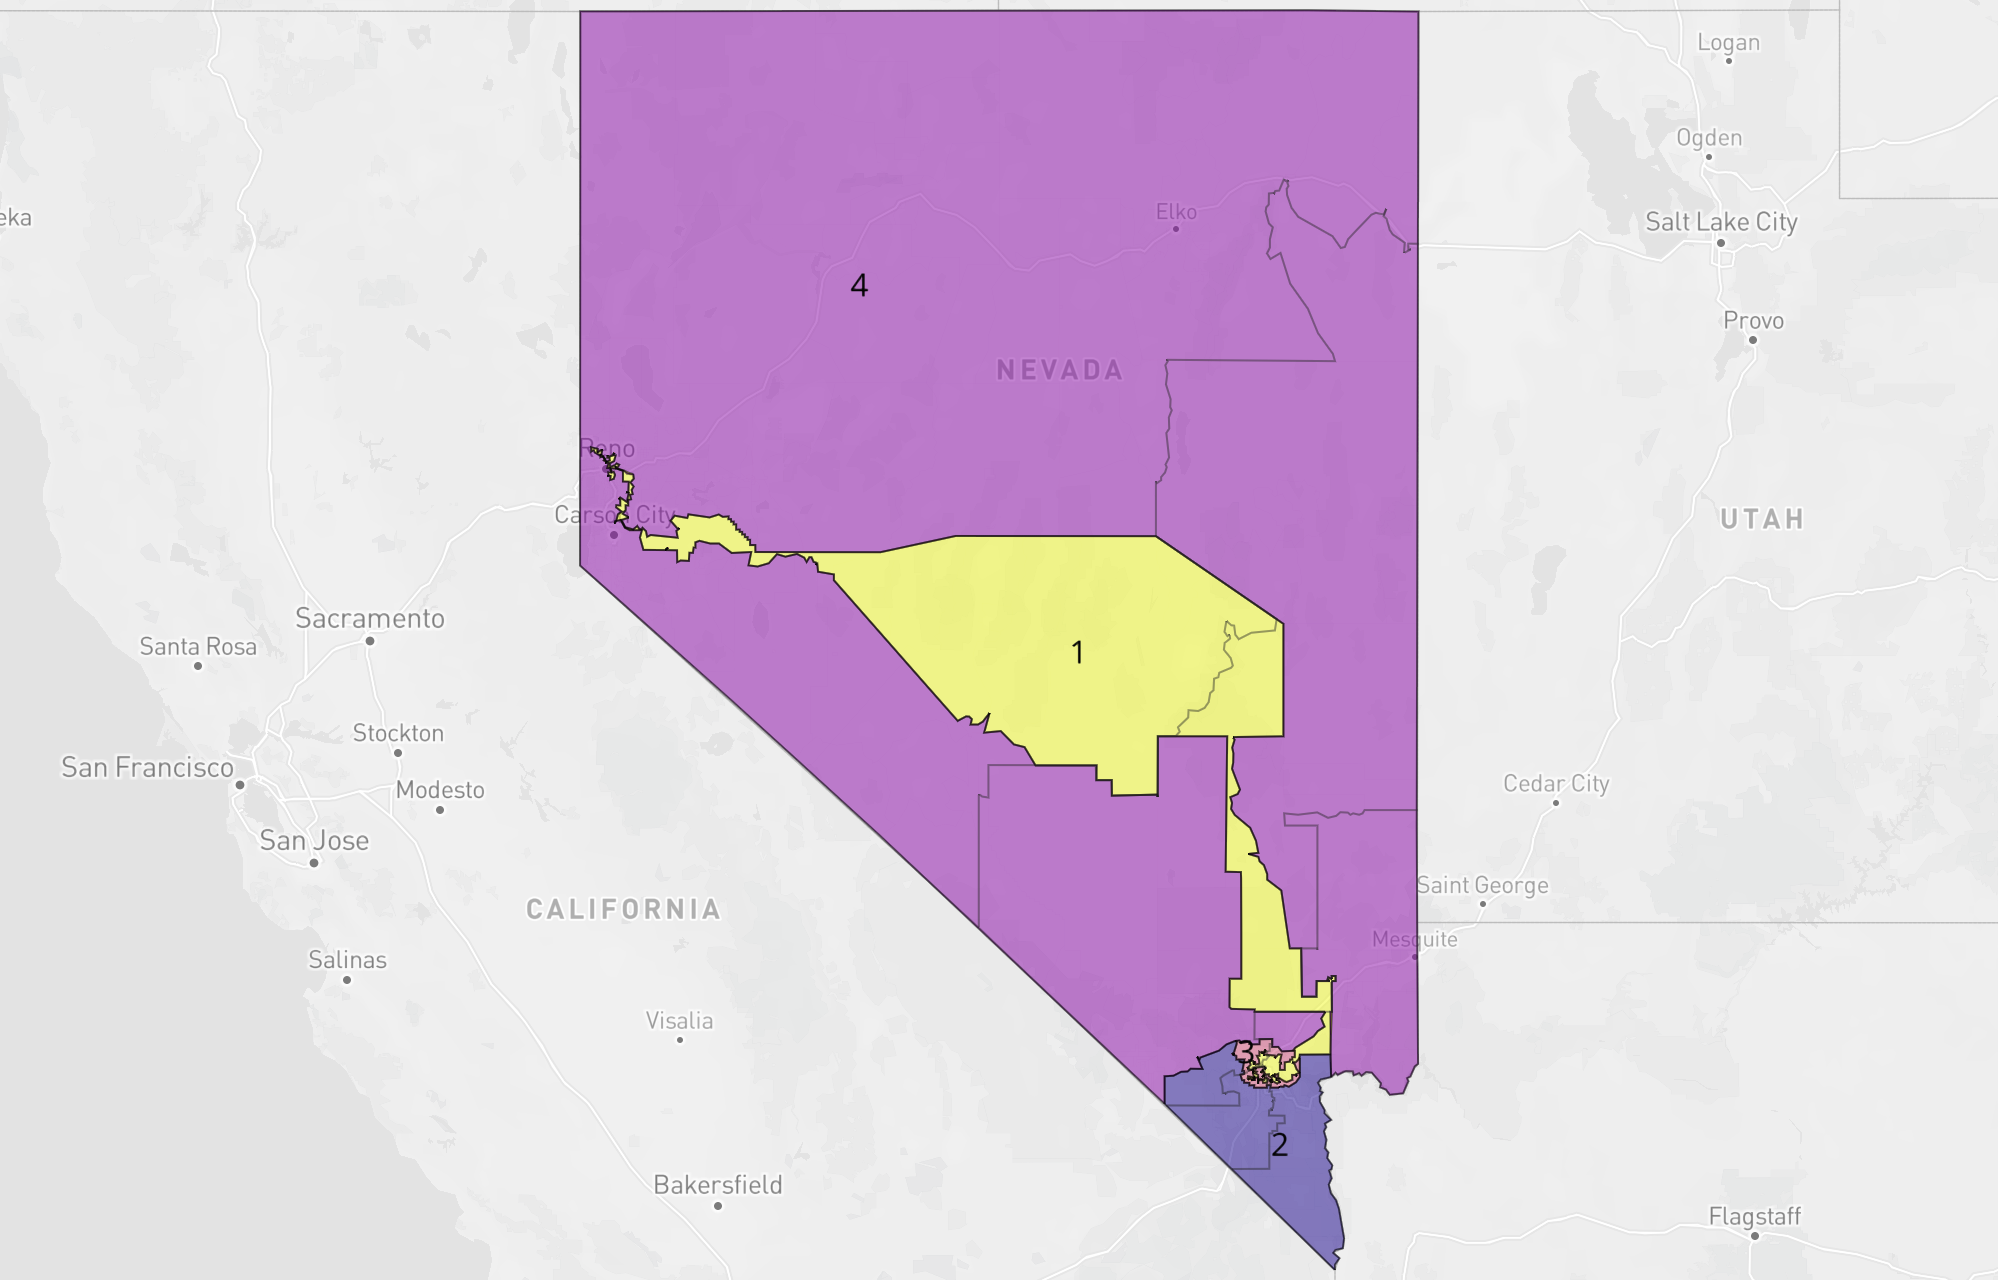
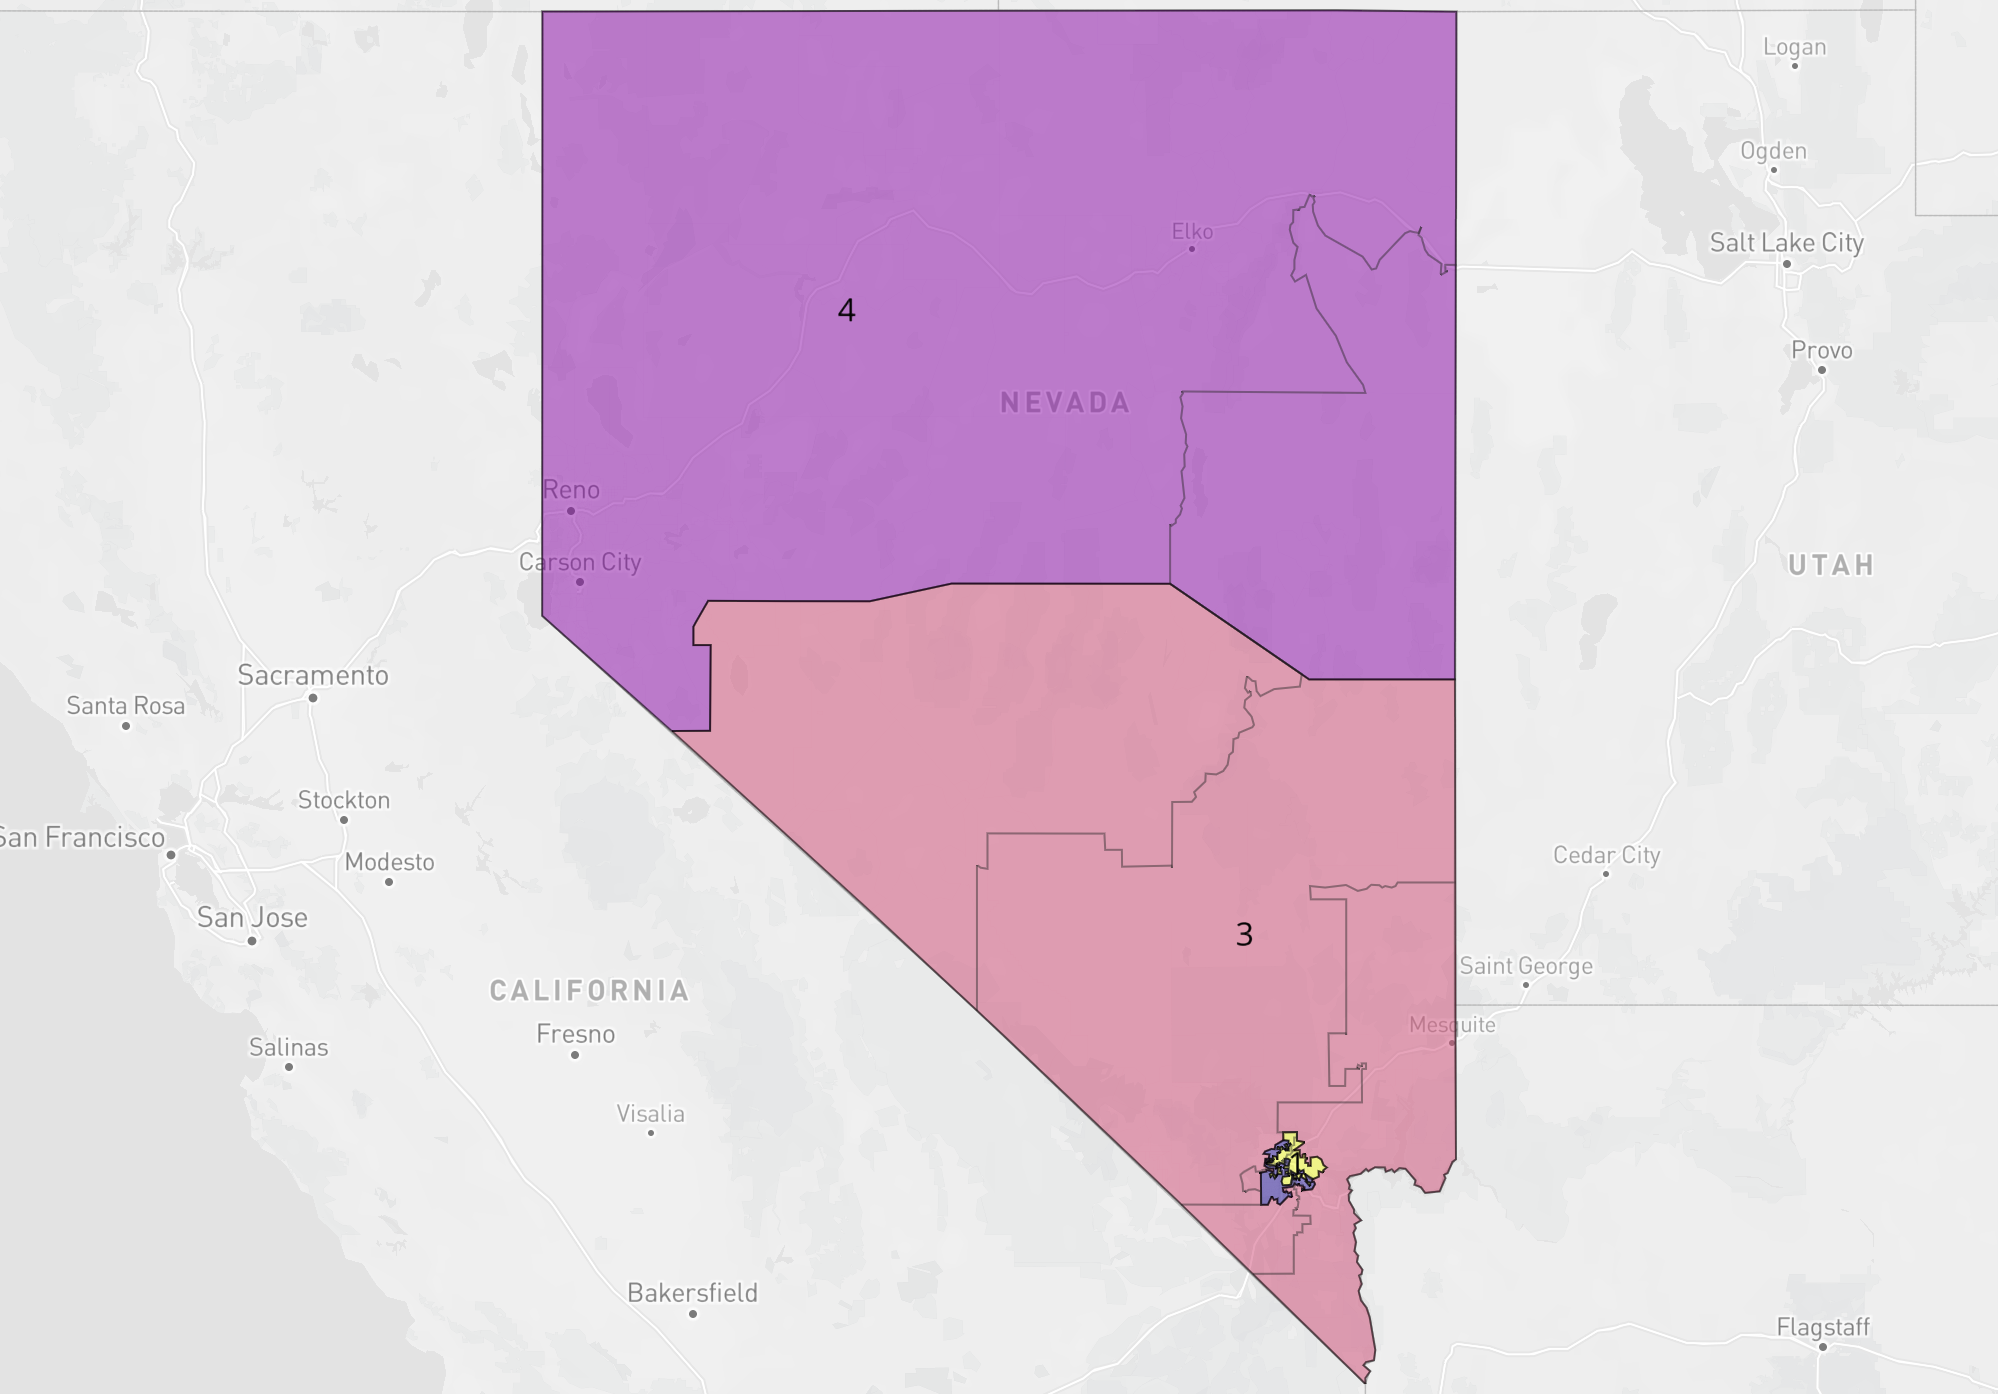
WIP

diff --git a/scripts/analyze_state.py b/scripts/analyze_state.py
@@ -5,7 +5,7 @@ Analyze the Official & Notable maps for a state vs. the Baseline map
 
 For example:
 
-$ scripts/analyze_state.py -s NC
+$ scripts/analyze_state.py NC
 
 For documentation, type:
 
@@ -21,76 +21,64 @@ import os
 from pg import *
 
 
-def parse_args() -> Namespace:
-    parser: ArgumentParser = argparse.ArgumentParser(
-        description="Analyze the Official & Notable maps for a state vs. the Baseline map"
-    )
+### PARSE ARGS ###
 
-    parser.add_argument(
-        "-s",
-        "--state",
-        default="NC",
-        help="The two-character state code (e.g., NC)",
-        type=str,
-    )
-    parser.add_argument(
-        "-v", "--verbose", dest="verbose", action="store_true", help="Verbose mode"
-    )
+parser: ArgumentParser = argparse.ArgumentParser(
+    description="Analyze the Official & Notable maps for a state vs. the Baseline map"
+)
 
-    args: Namespace = parser.parse_args()
-    return args
+parser.add_argument("state", help="The two-character state code (e.g., MD)", type=str)
+parser.add_argument(
+    "-v", "--verbose", dest="verbose", action="store_true", help="Verbose mode"
+)
+
+args: Namespace = parser.parse_args()
+
+xx: str = args.state
 
 
-def main() -> None:
-    """Log energies for all the maps generated for a state."""
+### PULL THE BASELINE RATINGS ###
 
-    args: Namespace = parse_args()
-
-    xx: str = args.state
-
-    # NOTE - Make sure ratings have already been pulled for the baseline map.
-    # ### PULL THE BASELINE RATINGS ###
-
-    # print()
-    # print("Pulling ratings for baseline map ...")
-    # based_id: str = baseline_maps[xx]
-    # os.system(f"scripts/pull_map_ratings.sh {xx} {plan_type} Baseline {based_id}")
-
-    # TODO - Uncomment this
-    # ### PLOT PAIRWISE RADAR DIAGRAMS ###
-
-    # for label in [
-    #     "Official",
-    #     "Proportional",
-    #     "Competitive",
-    #     "Minority",
-    #     "Compact",
-    #     "Splitting",
-    # ]:
-    #     print("Plotting radar diagram for", label, "map ...")
-    #     os.system(f"scripts/plot_radar_diagram.py {xx} {label} Baseline")
-
-    # TODO - Uncomment this
-    # ### WRITE THE RATINGS TO A CSV FILE ###
-
-    # print("Writing ratings to CSV file ...")
-    # os.system(f"scripts/write_ratings_table.py {xx}")
-
-    ### FIND DISTRICT CORES ###
-
-    print("Diffing plans ...")
-    # os.system(f"scripts/diff_plans.py -s {xx}")
-
-    # TODO - Compute population by district CSV
-    # TODO - Import core "maps" into DRA
-    # TODO - What else?
-
-    print("Done!\n")
-
-    pass
+print()
+print("Pulling ratings for baseline map ...")
+based_id: str = baseline_maps[xx]
+os.system(f"scripts/pull_map_ratings.sh {xx} {plan_type} Baseline {based_id}")
 
 
-if __name__ == "__main__":
-    main()
+### PLOT PAIRWISE RADAR DIAGRAMS ###
 
-### END ###
+for label in [
+    "Official",
+    "Proportional",
+    "Competitive",
+    "Minority",
+    "Compact",
+    "Splitting",
+]:
+    print("Plotting radar diagram for", label, "map ...")
+    os.system(f"scripts/plot_radar_diagram.py {xx} {label} Baseline")
+
+
+### WRITE THE RATINGS TO A CSV FILE ###
+
+print("Writing ratings to CSV file ...")
+os.system(f"scripts/write_ratings_table.py {xx}")
+
+
+### DIFF THE PLANS ###
+
+print("Diffing plans ...")
+os.system(f"scripts/diff_plans.py -s {xx}")
+
+
+### ADD & PLOT MAP REGIONS ###
+
+print("Add map regions ...")
+os.system(f"scripts/map_regions.py -s {xx}")
+
+print("Plot regions ...")
+os.system(f"scripts/plot_regions.py -s {xx}")
+
+print("Done!\n")
+
+pass

diff --git a/scripts/analyze_state_REVISED.py b/scripts/analyze_state_REVISED.py
@@ -1,0 +1,96 @@
+#!/usr/bin/env python3
+
+"""
+Analyze the Official & Notable maps for a state vs. the Baseline map
+
+For example:
+
+$ scripts/analyze_state.py -s NC
+
+For documentation, type:
+
+$ scripts/analyze_state.py -h
+
+"""
+
+
+import argparse
+from argparse import ArgumentParser, Namespace
+import os
+
+from pg import *
+
+
+def parse_args() -> Namespace:
+    parser: ArgumentParser = argparse.ArgumentParser(
+        description="Analyze the Official & Notable maps for a state vs. the Baseline map"
+    )
+
+    parser.add_argument(
+        "-s",
+        "--state",
+        default="NC",
+        help="The two-character state code (e.g., NC)",
+        type=str,
+    )
+    parser.add_argument(
+        "-v", "--verbose", dest="verbose", action="store_true", help="Verbose mode"
+    )
+
+    args: Namespace = parser.parse_args()
+    return args
+
+
+def main() -> None:
+    """Log energies for all the maps generated for a state."""
+
+    args: Namespace = parse_args()
+
+    xx: str = args.state
+
+    # NOTE - Make sure ratings have already been pulled for the baseline map.
+    # ### PULL THE BASELINE RATINGS ###
+
+    # print()
+    # print("Pulling ratings for baseline map ...")
+    # based_id: str = baseline_maps[xx]
+    # os.system(f"scripts/pull_map_ratings.sh {xx} {plan_type} Baseline {based_id}")
+
+    # TODO - Uncomment this
+    # ### PLOT PAIRWISE RADAR DIAGRAMS ###
+
+    # for label in [
+    #     "Official",
+    #     "Proportional",
+    #     "Competitive",
+    #     "Minority",
+    #     "Compact",
+    #     "Splitting",
+    # ]:
+    #     print("Plotting radar diagram for", label, "map ...")
+    #     os.system(f"scripts/plot_radar_diagram.py {xx} {label} Baseline")
+
+    # TODO - Uncomment this
+    # ### WRITE THE RATINGS TO A CSV FILE ###
+
+    # print("Writing ratings to CSV file ...")
+    # os.system(f"scripts/write_ratings_table.py {xx}")
+
+    ### FIND DISTRICT CORES ###
+
+    print("Diffing plans ...")
+    # os.system(f"scripts/diff_plans.py -s {xx}")
+
+    # TODO - Compute population by district CSV
+    # TODO - Import core "maps" into DRA
+    # TODO - What else?
+
+    print("Done!\n")
+
+    pass
+
+
+if __name__ == "__main__":
+    main()
+
+### END ###

diff --git a/pg/constants.py b/pg/constants.py
@@ -407,7 +407,7 @@ notable_maps: dict[str, dict] = {
     "NV": {
         "proportional": "628a65f3-abf3-412b-9ef6-7cd20bfeac73",
         "competitive": "ad048a79-af54-4092-aa8f-f14a0947df4d",
-        "minority": "5a31eb05-bdce-4d5c-9b24-69eb5cb5304c",
+        "minority": "cd1c643b-7353-4d8e-b9ab-072ef603508d",  # replaced
         "compact": "628a65f3-abf3-412b-9ef6-7cd20bfeac73",
         "splitting": "7b4f4269-1c31-4fa8-a282-cd8f1fa3b5e6",
     },
@@ -711,7 +711,7 @@ notables_copy: dict[str, dict] = {
     "NV": {
         "proportional": "c9b38b70-d05a-4d6f-b6ec-f237da8ca34f",
         "competitive": "3ac3a189-ea62-4d90-baec-6e7e46c9893d",
-        "minority": "789fe206-aa13-4b04-a984-67647eceecbb",
+        "minority": "387a0b00-171b-4821-8479-63bcdaf2d79a",  # a copy of cd1c643b-7353-4d8e-b9ab-072ef603508d
         "compact": "8da2d779-b8bd-4e27-bae7-340fa87a4376",
         "splitting": "baa3cfad-e4f8-452c-9c5d-a71bd4efd9ff",
     },
